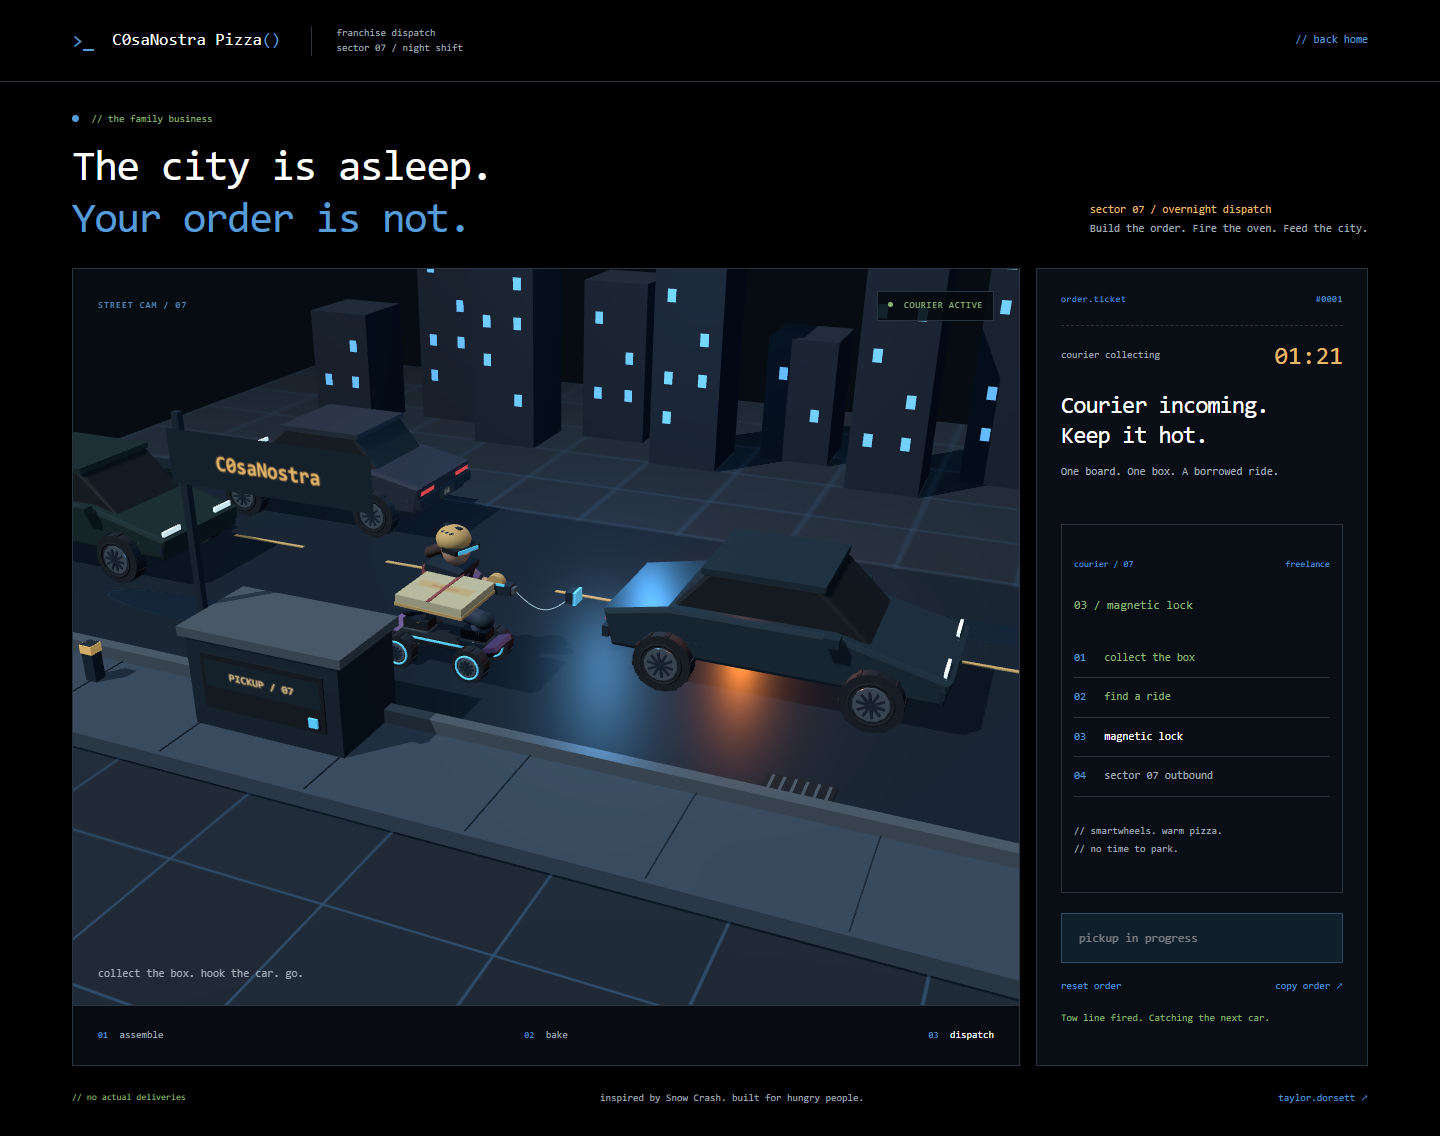
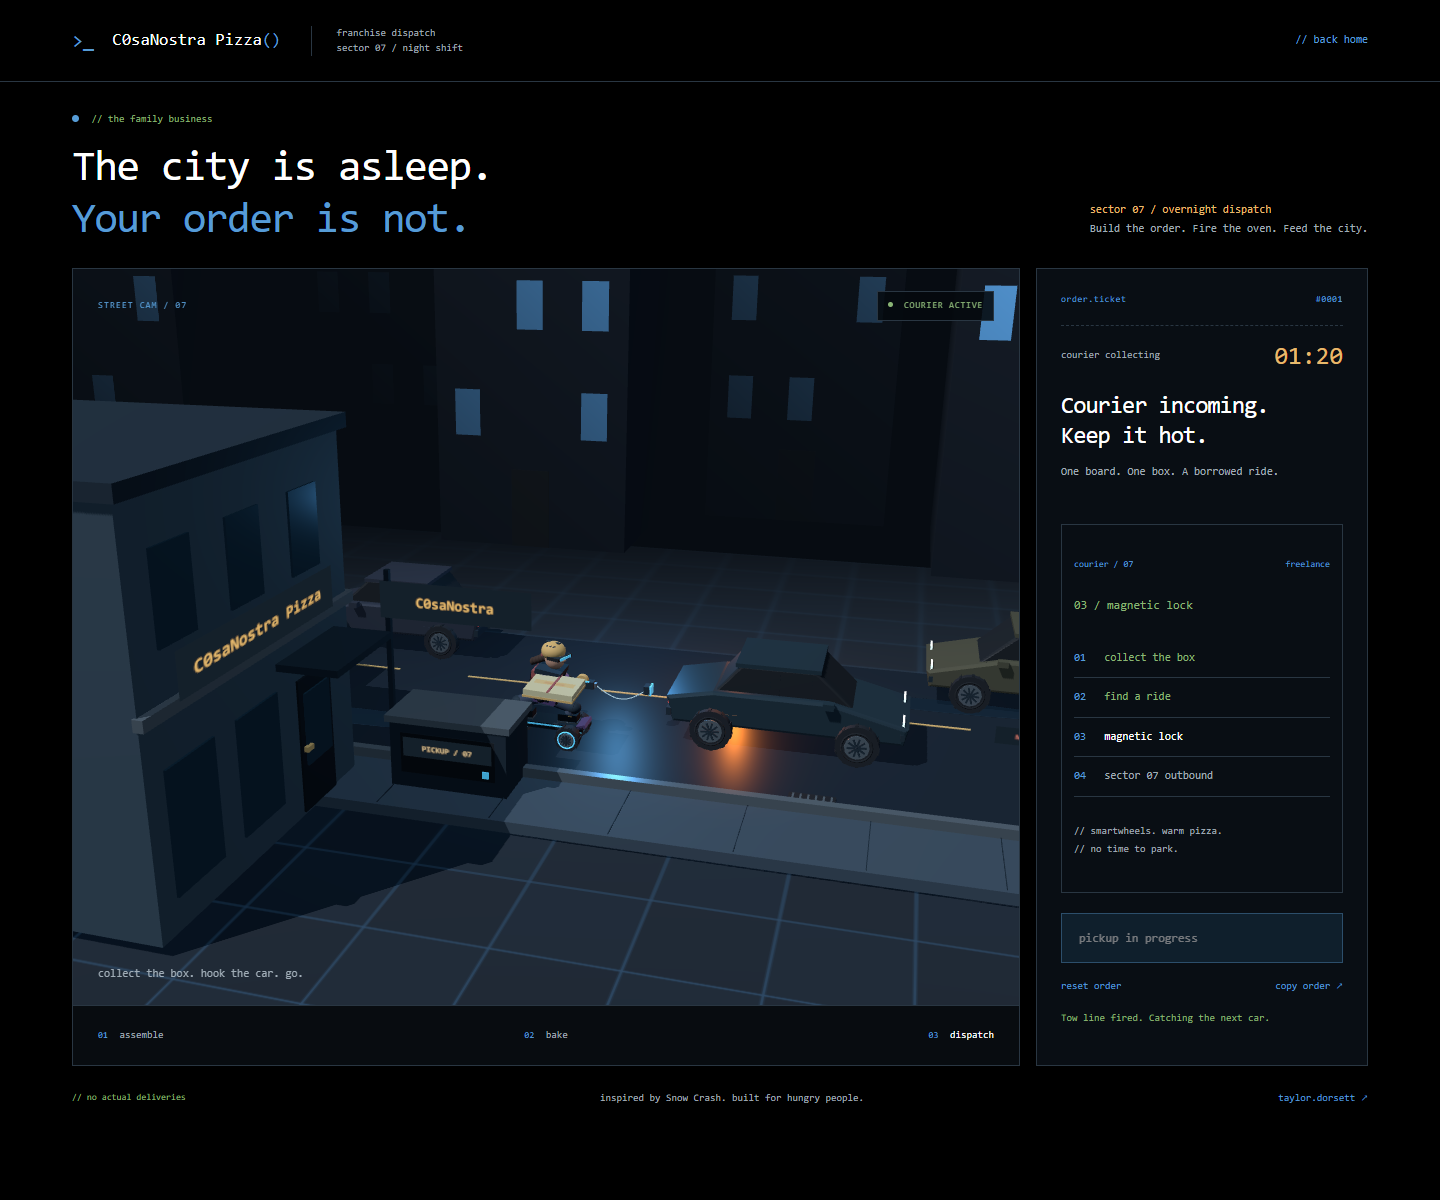
fix city scale

diff --git a/courier.js b/courier.js
@@ -89,6 +89,30 @@ export function createCourier(scene) {
   for(const x of [-7,6]){
     box(root,x,.15,3.1,.17,.55,.17,steel);box(root,x,.36,3.1,.19,.12,.19,amber);
   }
+  // A two storey corner shop, with a human sized door beside the pickup bay.
+  const masonry=material('#30404a'), glass=material('#203c4b',{metalness:.45,roughness:.22});
+  box(root,-9,2.95,6,6,6.2,6,masonry);
+  box(root,-9,6.1,6,6.25,.25,6.25,steel);
+  box(root,-9,3.1,2.96,6.1,.18,.16,alloy);
+  box(root,-5.96,3.1,6,.16,.18,6.1,alloy);
+  // Shopfront facing the road.
+  for(const x of [-10.6,-7.5]){
+    box(root,x,1.3,2.96,2.5,2.15,.04,glass);
+    box(root,x,1.3,2.91,.07,2.2,.08,alloy);
+    box(root,x,.2,2.91,2.6,.09,.08,alloy);
+    box(root,x,2.4,2.91,2.6,.09,.08,alloy);
+  }
+  for(const x of [-10.6,-8.8,-7])box(root,x,4.6,2.96,.9,1.35,.04,glass);
+  // The visible side entrance is taller than the courier.
+  box(root,-5.96,1.08,4.4,.04,2.3,1.1,dark);
+  box(root,-5.92,1.35,4.4,.04,1.25,.85,glass);
+  box(root,-5.88,1.05,4.83,.08,.09,.2,trim);
+  for(const z of [6.2,8])box(root,-5.96,1.35,z,.04,1.9,1.2,glass);
+  for(const z of [4.4,6.2,8])box(root,-5.96,4.6,z,.04,1.35,.9,glass);
+  box(root,-5.5,2.65,4.5,1.1,.12,2,steel);
+  const shopName=label(root,'C0saNostra Pizza',4.5,.7,-5.86,3.5,6,'#e4b76b');
+  shopName.rotation.y=Math.PI/2;
+  label(root,'C0saNostra Pizza',5,.7,-9,3.5,2.85,'#e4b76b');
   // Pickup locker and street furniture.
   box(root,-4,.48,2.9,2.1,1.25,1.2,steel);
   box(root,-4,1.15,2.9,2.25,.12,1.3,alloy);
@@ -218,7 +242,8 @@ export function createCourier(scene) {
     }
     const preX=mix(-8.3,-4.5,collect)+street*1.4;
     const towedX=carX-4.6;
-    rider.position.set(mix(preX,towedX,pull),mix(.04,-.04,street),mix(4,.65,street));
+    const pickupZ=mix(2.25,4,smooth((collect-.65)/.35));
+    rider.position.set(mix(preX,towedX,pull),mix(.04,-.04,street),mix(pickupZ,.65,street));
     rider.rotation.y=Math.sin(street*Math.PI)*.5;
     board.rotation.x=Math.sin(street*Math.PI)*.12;
     board.rotation.z=(!reduced?Math.sin(t*17)*.012:0)-Math.sin(pull*Math.PI)*.035;

diff --git a/app.js b/app.js
@@ -60,17 +60,19 @@ ctx.strokeStyle='#274154';ctx.lineWidth=2;ctx.strokeRect(0,0,128,128);ctx.stroke
 const texture = new THREE.CanvasTexture(tile);texture.wrapS=texture.wrapT=THREE.RepeatWrapping;texture.repeat.set(8,8);texture.colorSpace=THREE.SRGBColorSpace;
 const floor=mesh(new THREE.PlaneGeometry(30,30),new THREE.MeshStandardMaterial({map:texture,roughness:1}));floor.rotation.x=-Math.PI/2;floor.position.y=-.32;
 
-// A small city beyond the kitchen. The food stays warm under the work light.
+// Full sized city blocks behind the kitchen and delivery street.
 const city = new THREE.Group();scene.add(city);
 const buildingMat = material('#101b28');
 const windowMat = material('#569cd6', {emissive:'#569cd6',emissiveIntensity:1.2});
 for(let i=0;i<12;i++){
-  const x=-11+i*2, height=2.5+(i*7%5)*.85;
-  box(1.4,height,1.5,buildingMat,city,x,height/2-.3,-10-(i%2)*1.3);
-  for(let y=.7;y<height-.4;y+=.8)for(const dx of [-.35,.35]){
+  const x=-38+i*7.5, height=12+(i*7%5)*4;
+  const z=-17-(i%2)*6;
+  box(6,height,6,buildingMat,city,x,height/2-.3,z);
+  for(let y=3.8;y<height-.8;y+=3.2)for(const dx of [-2,0,2]){
     if((i+Math.round(y*10)+Math.round(dx*10))%3===0)continue;
-    box(.17,.25,.02,windowMat,city,x+dx,y,-9.24-(i%2)*1.3);
+    box(.8,1.4,.02,windowMat,city,x+dx,y,z+3.01);
   }
+  box(1.2,2.4,.025,mats.black,city,x,.9,z+3.02);
 }
 const neon = material('#569cd6',{emissive:'#569cd6',emissiveIntensity:2});
 box(4.4,.045,.045,neon,scene,0,2.37,-4.0);
@@ -209,7 +211,7 @@ function dispatch(){
   if(!['baked','sliced','dispatched'].includes(mode))return;
   mode='pickup';courierStarted=performance.now();sliceTarget=0;
   courierPhase='';
-  camera.position.set(4,7.2,13.5);camera.lookAt(-1.5,.65,1);
+  camera.position.set(3,9,21);camera.lookAt(-3,2,1);
   kitchenObjects.forEach(object=>object.visible=false);courier.start();update();
   say('Courier at the pickup bay.');
 }
